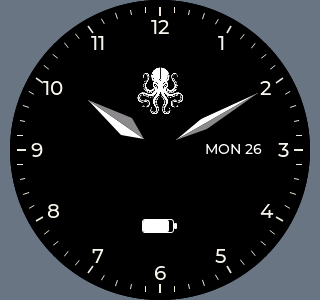
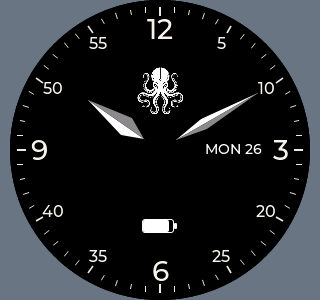
Use cardinal hours and small minute numbers on Dauphine dial

diff --git a/V2/Firmware/simulator/src/analog_clock.c b/V2/Firmware/simulator/src/analog_clock.c
@@ -120,7 +120,10 @@ void analog_clock_set_dial(enum watch_dial dial)
             if(i)number(i*30,113,i*5,&lv_font_montserrat_22);
         }
     } else if(dial==DIAL_DAUPHINE) {
-        for(int i=0;i<12;i++)number(i*30,123,i?i:12,&lv_font_montserrat_20);
+        for(int i=0;i<12;i++) {
+            if(i%3==0)number(i*30,121,i?i:12,&lv_font_montserrat_28);
+            else number(i*30,123,i*5,&lv_font_montserrat_16);
+        }
     }
     logo=lv_image_create(view);lv_image_set_src(logo,&project_logo_alpha);
     lv_image_set_scale(logo,analog_clock_logo_scale());lv_image_set_antialias(logo,true);

diff --git a/V2/Firmware/simulator/README.md b/V2/Firmware/simulator/README.md
@@ -53,8 +53,8 @@ No dive or depth replay starts automatically. Turn the
 crown and fill the exit ring to reach **Watch / Diving / Compass / Options**.
 Options contains **Bluetooth / Watch / Backlight / Haptics / Sleep**.
 Watch offers **Digital / Analog / Cadran**. Cadran selects **Minimaliste**
-(thin flat-ended hands, no numbers), **Dauphine** (faceted hands, 1–12 and
-sixty perimeter minute ticks), or **Automatique** (the approved blue dual-scale
+(thin flat-ended hands, no numbers), **Dauphine** (faceted hands, large 12/3/6/9, smaller five-minute numbers
+between them, and sixty perimeter minute ticks), or **Automatique** (the approved blue dual-scale
 dial, project logo, luminous-insert hands, day/date window and battery above the inner 6). Automatique
 is a face name; it never switches modes automatically. There is no seconds hand.
 Selecting a face preserves Digital/Analog; tap applies and returns to Watch,
